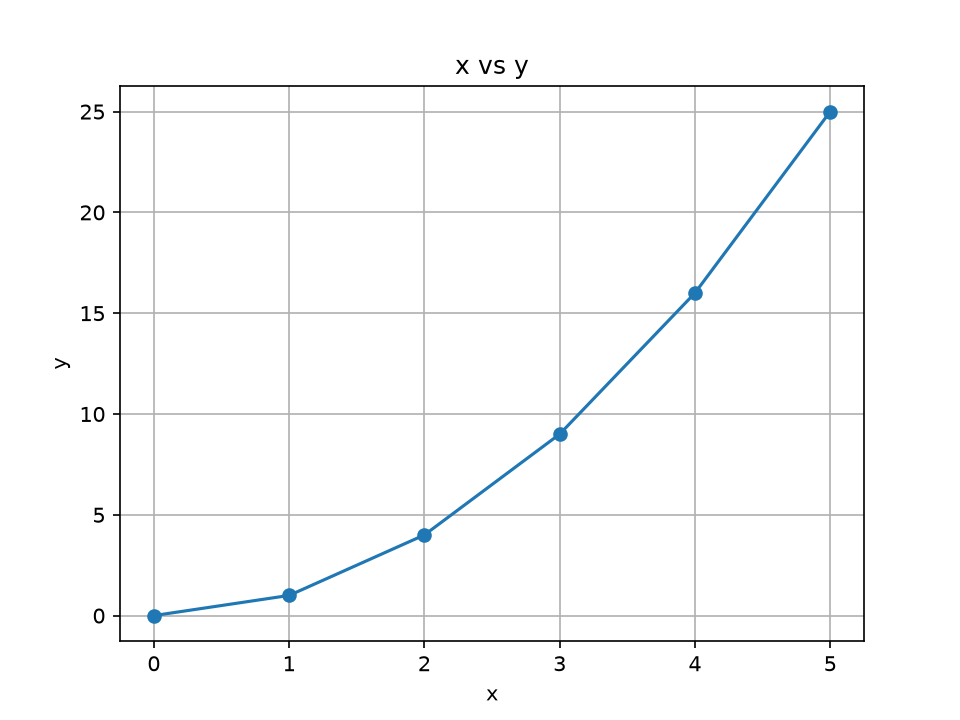
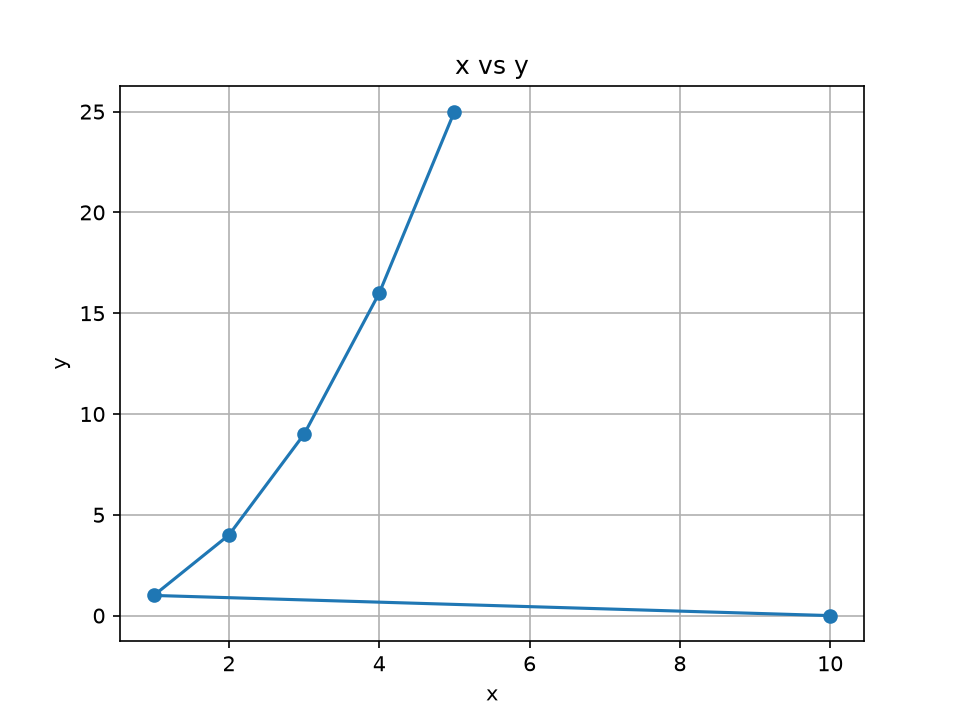
NyaCoord

diff --git a/main.py b/main.py
@@ -3,7 +3,7 @@ import matplotlib.pyplot as plt
 
 
 def create_and_save_plot(output_path="plot.png"):
-    df = pd.DataFrame({"x": [0, 1, 2, 3, 4, 5], "y": [0, 1, 4, 9, 16, 25]})
+    df = pd.DataFrame({"x": [10, 1, 2, 3, 4, 5], "y": [0, 1, 4, 9, 16, 25]})
     plt.figure()
     plt.plot(df["x"], df["y"], marker="o")
     plt.title("x vs y")
